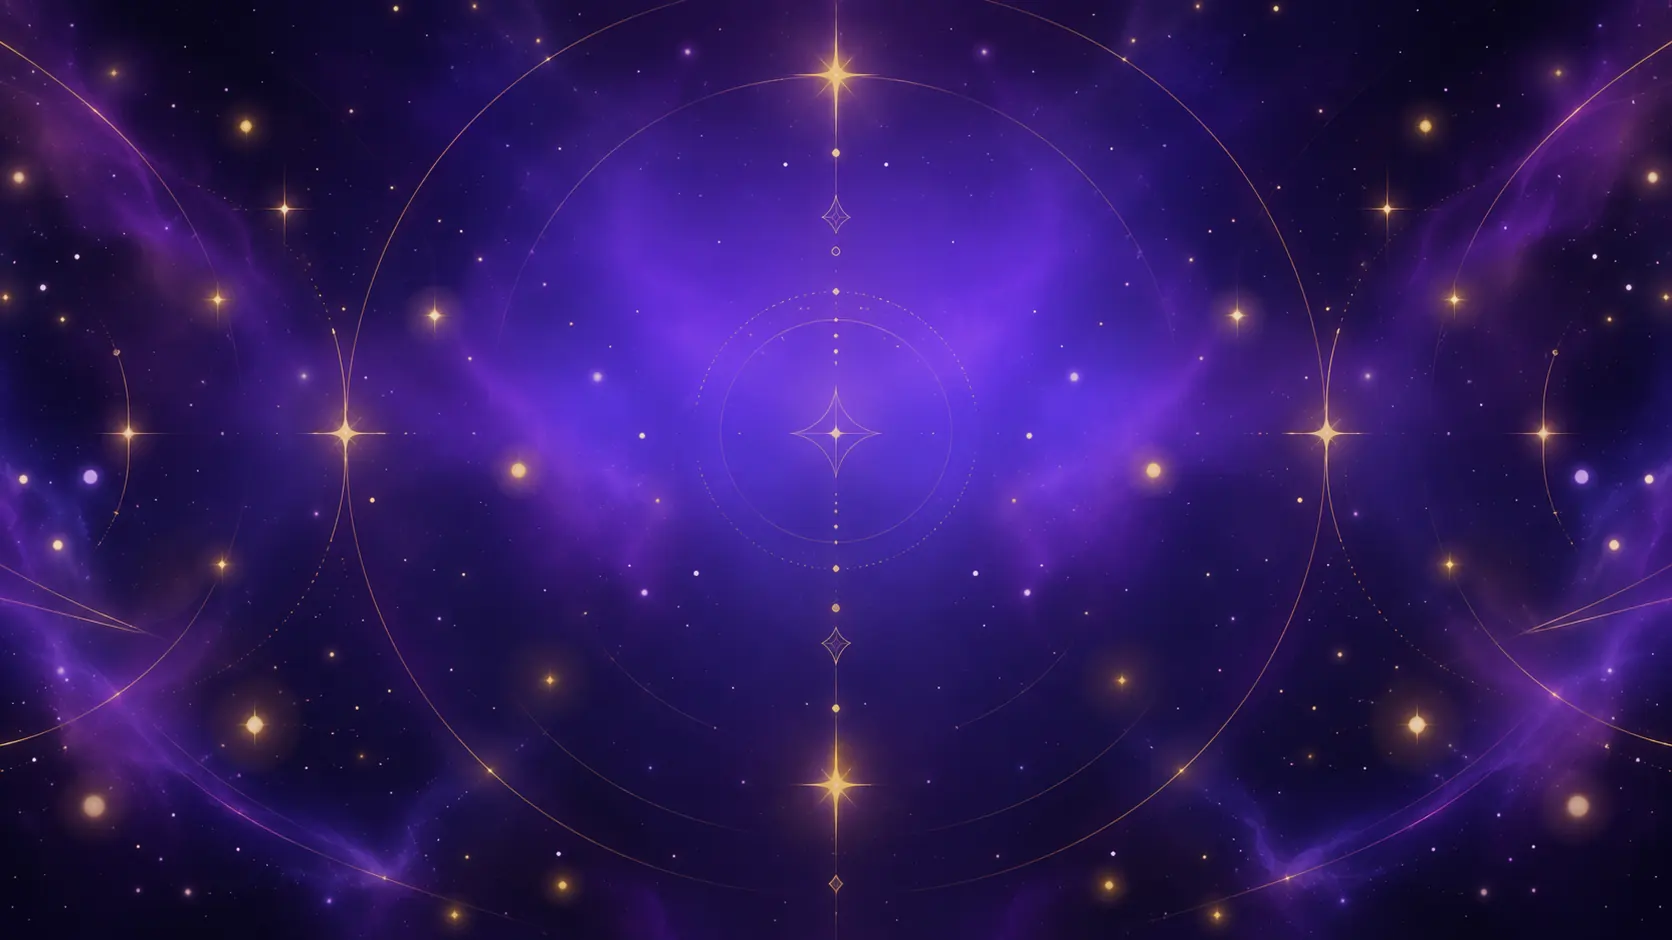
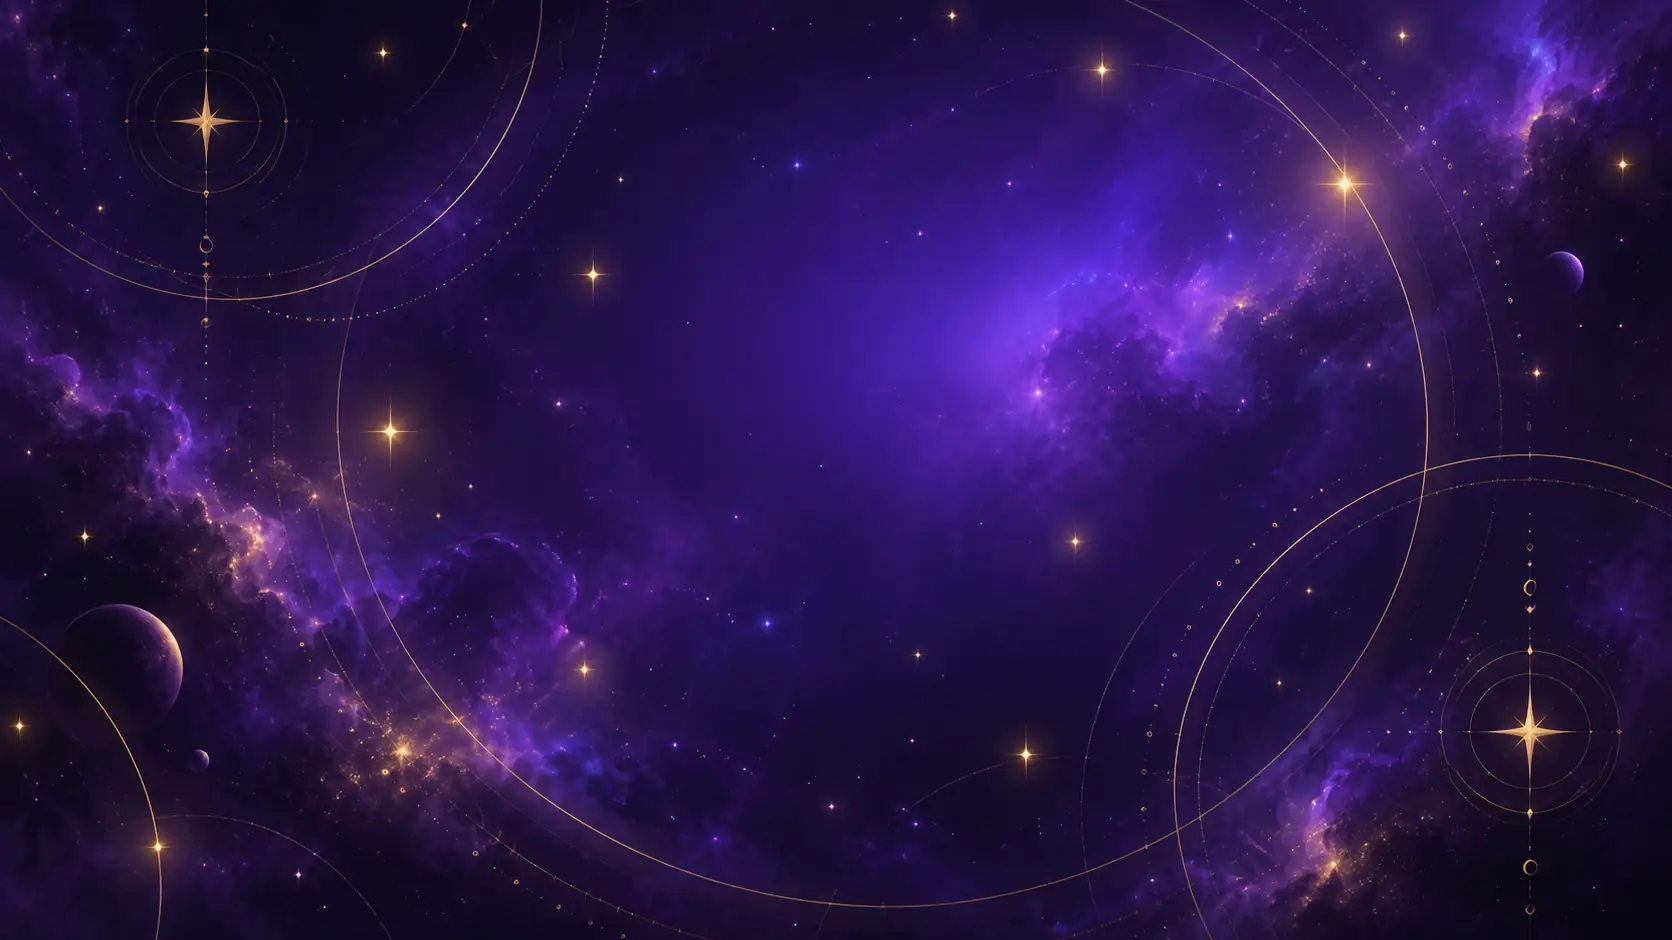
fix(SKY-11602): correct royal wallpaper order, confirm the rest
UX sign-off on the SKY-11591 wallpaper ordering. royal-src-02 (a
symmetric bright-burst-dead-centre frame) was shipped at n=2 despite
the ticket's own rationale saying it should rank last for editor
legibility. Moved to n=4; royal-src-05 and royal-src-03 move up to
fill n=2/n=3. cyber and all other sets confirmed as shipped after
review against the full 38-image contact sheet.

diff --git a/docs/design/wallpaper-pipeline.md b/docs/design/wallpaper-pipeline.md
@@ -92,11 +92,31 @@ a reason recorded in the manifest under `rejected`:
 - `royal-src-01` — busiest ring-and-constellation detail of the five; too much competing structure behind panel glass.
 - `noir-src-03` — muddiest frame of the five; the right two thirds are near-black with no readable subject.
 
-Ordering within a set is a UX call, not an engineering one. The current order is
+Ordering within a set is a UX call, not an engineering one. The order is
 strongest thematic read first, breaking ties toward the calmer frame, on the
 grounds that these sit behind a writing surface. **UXDesigner owns the final
 order.** Reordering is a manifest edit plus a rebuild — no code changes — because
 nothing depends on which source backs which `n`.
+
+UX sign-off (SKY-11602), confirming the order shipped in PR #1502 with one fix:
+
+- **`cyber`** — kept as shipped (`cyber-src-02` skyline at n=1). It's the
+  literal cyberpunk read; `cyber-src-01`'s grid is calmer but reads as generic
+  synthwave on its own, and every other set in the pack already puts its most
+  scenic/iconic frame first and saves its calmest frame for last (e.g.
+  `aurora-src-02`, explicitly the calmest of its set, sits at n=4). Flagging
+  `cyber-src-02` to QA for the same scrim/legibility check as `bg-winter-4` —
+  its skyline silhouette is the densest edge detail in the pack, even though
+  it isn't the brightest.
+- **`royal`** — corrected. The ticket's own rationale says `royal-src-02` (a
+  symmetric composition with a bright star dead centre) was ranked last for
+  legibility, but the shipped manifest had it at n=2, the second-most-seen
+  slot. Visual review confirms it's the one frame in the set where a title or
+  cursor would sit right on the brightest point. Moved to n=4; `royal-src-05`
+  and `royal-src-03` moved up to n=2 and n=3. New order: `royal-src-04`,
+  `royal-src-05`, `royal-src-03`, `royal-src-02`.
+- All other sets — reviewed against the full contact sheet, no dead-centre
+  bursts or other legibility red flags found. Confirmed as shipped.
 
 ### Encoding
 
@@ -114,9 +134,9 @@ WebP decode path is the one the app already exercises.
 | Images | 38 |
 | Total | 1.76 MB |
 | Average | 47.4 KB |
-| Largest | `bg-royal-4.webp`, 59.4 KB |
+| Largest | `bg-royal-3.webp`, 59.4 KB |
 
-`bg-royal-4` is the one image that cannot reach 52 KB — `royal-src-03` is an
+`bg-royal-3` is the one image that cannot reach 52 KB — `royal-src-03` is an
 unusually dense nebula-and-starfield frame. It sits at the quality floor (40) and
 the build prints a warning saying so. A q40-vs-q70 comparison at 100% showed no
 visible difference in the gold rings, star points or the smooth violet field, so
